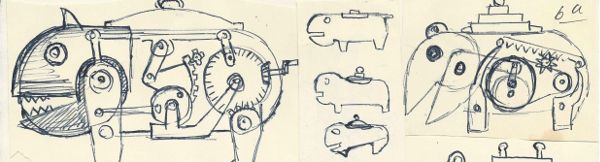
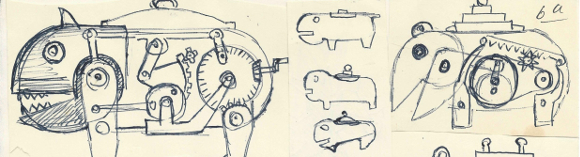
On branch master  Your branch is up-to-date with 'origin/master'.
Changes to be committed:
	modified:   images/HenkRobotDieren.jpg
	modified:   images/low/HenkRobotDieren.jpg
	modified:   index.xml
	modified:   writing/AI-BigData-and-the-Distribution-of-Wealth/index.html
	modified:   writing/index.xml

diff --git a/writing/AI-BigData-and-the-Distribution-of-Wealth/index.html b/writing/AI-BigData-and-the-Distribution-of-Wealth/index.html
@@ -239,7 +239,7 @@
 
 <p>Via free apps harvested big data and feedback from the users play a crucial role in the learning process of artificial intelligence. The technology learns by mass use. So, users are fulfilling their share in technology already. The proceeds of the technology are so at least in part to benefit the users.</p>
 
-<p><figure class="progressive"><img class="progressive__img progressive--not-loaded" data-progressive="https://michelmooij.github.io/home/michelmooij/sites/static/img/socialbrain.png" src="https://michelmooij.github.io/home/michelmooij/sites/static/img/low/socialbrain.png" alt="Social Brain" title="Social Brain, by Henk Mooij 1930-2015" /></p></figure>
+<p><figure class="progressive"><img class="progressive__img progressive--not-loaded" data-progressive="https://michelmooij.github.io/images/socialbrain.png" src="https://michelmooij.github.io/images/low/socialbrain.png" alt="Social Brain" title="Social Brain, by Henk Mooij 1930-2015" /></p></figure>
 
 <p>Knowledge and technology became increasingly intertwined over the years. We stand on the shoulders of giants. We benefit from the thinking of our ancestors. Some of those ancestors have put the decisive step at the right time in an invention that earned them a lot of money. Their children belong to the wealthy. Other ancestors were the critics who have contributed to the maturing of new ideas. Their children do not belong to the rich. There also were just farmers, workers and police officers who did their job so that the society could survive peacefully and knowledge could develop further. And there were ancestors, who fell for our freedom.</p>
 
